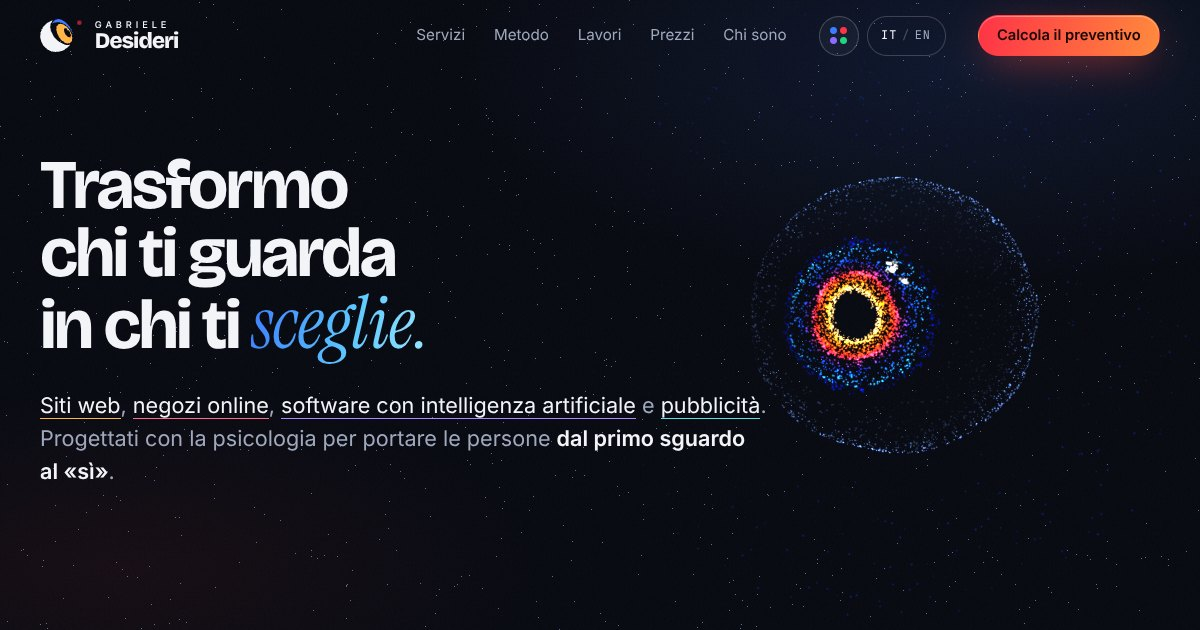
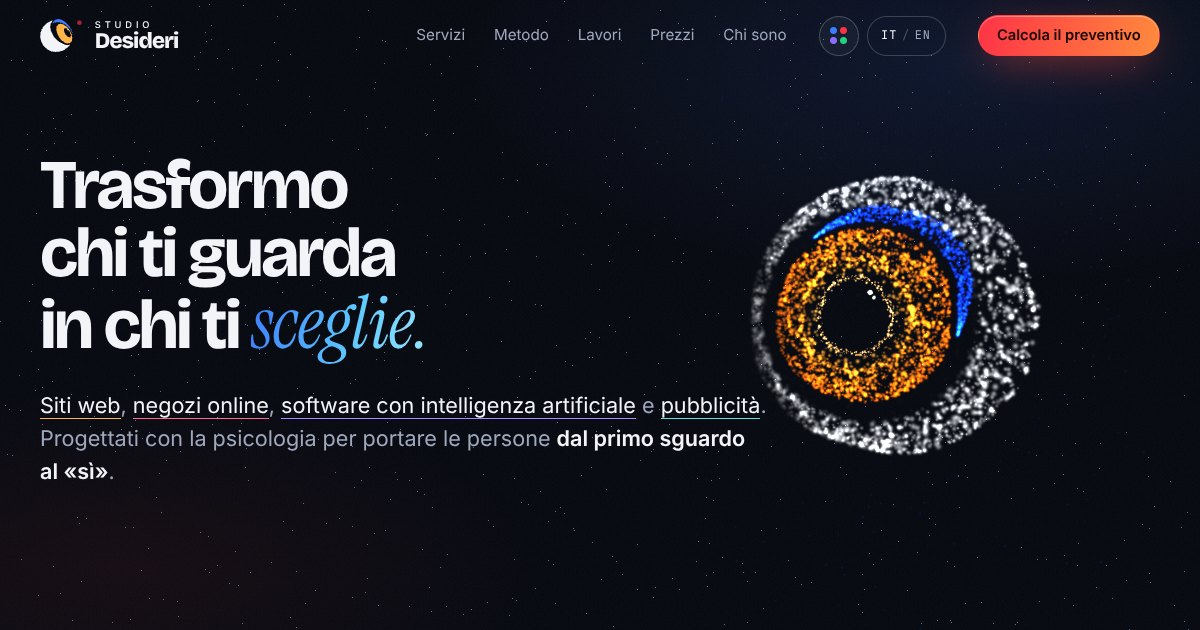
Nuovo nome: Desideri Studio
- Logo con «STUDIO» al posto di «GABRIELE» (scritta in tracciati), anche nella versione per fondi chiari
- Header, footer, titoli delle pagine, dati strutturati (studio con fondatore Gabriele Desideri), privacy
- Riga «Siti web · AI · Pubblicità» nel footer e nei titoli; immagini di anteprima rigenerate

Claude-Session: https://claude.ai/code/session_01NiGGEJbCXDT9DhRUzuRYxp

Changed region(s): [[0.6167, 0.2714, 0.8633, 0.7238], [0.0925, 0.0302, 0.1233, 0.0603]]

diff --git a/src/scripts/preventivo.js b/src/scripts/preventivo.js
@@ -21,7 +21,7 @@ const TESTI = {
     intro: 'Ciao Gabriele, ecco il mio progetto dal preventivo automatico:',
     tempi: 'Tempi', scontoRiga: 'Sconto pacchetto', totale: 'Totale indicativo', una: 'una tantum', iva: 'IVA esclusa',
     nome: 'Nome', attivita: 'Attività', settore: 'Settore', telefono: 'Telefono', preferisco: 'Preferisco', sito: 'Sito/social attuale', obiettivo: 'Obiettivo',
-    oggetto: 'Richiesta di preventivo dal sito',
+    oggetto: 'Richiesta di preventivo · Desideri Studio',
     inviaWa: 'Invia su WhatsApp', inviaMail: 'Invia per email', invio: 'Invio in corso…', riprova: 'Riprova',
     errore: (wa) => `Non sono riuscito a inviare la richiesta. Puoi mandarla <a href="${wa}" target="_blank" rel="noopener">su WhatsApp</a> con un clic.`,
     grazieModulo: (n, c) => `Grazie ${n}, ho ricevuto il tuo progetto. Ti ricontatto entro 24 ore${c ? ` via ${c.toLowerCase()}` : ''} con il preventivo definitivo.`,
@@ -40,7 +40,7 @@ const TESTI = {
     intro: "Hi Gabriele, here's my project from the instant quote:",
     tempi: 'Timing', scontoRiga: 'Bundle discount', totale: 'Indicative total', una: 'one-off', iva: 'excl. VAT',
     nome: 'Name', attivita: 'Business', settore: 'Sector', telefono: 'Phone', preferisco: 'Preferred contact', sito: 'Current site/social', obiettivo: 'Goal',
-    oggetto: 'Quote request from the website',
+    oggetto: 'Quote request · Desideri Studio',
     inviaWa: 'Send on WhatsApp', inviaMail: 'Send by email', invio: 'Sending…', riprova: 'Try again',
     errore: (wa) => `I couldn't send your request. You can send it <a href="${wa}" target="_blank" rel="noopener">on WhatsApp</a> in one click.`,
     grazieModulo: (n, c) => `Thank you ${n}, I've received your project. I'll get back to you within 24 hours${c ? ` by ${c.toLowerCase()}` : ''} with the final quote.`,

diff --git a/src/i18n/ui.js b/src/i18n/ui.js
@@ -16,7 +16,7 @@ export const ui = {
   it: {
     lang: 'it', locale: 'it_IT', vaiContenuto: 'Vai al contenuto', menu: 'Menu',
     nav: [['servizi', 'Servizi'], ['metodo', 'Metodo'], ['lavori', 'Lavori'], ['prezzi', 'Prezzi'], ['chi-sono', 'Chi sono']],
-    navEtichetta: 'Principale', home: 'Gabriele Desideri, home', tagline: 'Dal primo sguardo al sì',
+    navEtichetta: 'Principale', home: 'Desideri Studio, home', tagline: 'Dal primo sguardo al sì', ruolo: 'Siti web · AI · Pubblicità',
     ctaPreventivo: 'Calcola il preventivo', whatsapp: 'Scrivimi su WhatsApp', personalizza: 'Personalizza',
     zona: 'Milano, Italia e Svizzera',
     footerClaim: 'Di cognome faccio Desideri. Di lavoro, li creo.',
@@ -36,7 +36,7 @@ export const ui = {
   en: {
     lang: 'en', locale: 'en_GB', vaiContenuto: 'Skip to content', menu: 'Menu',
     nav: [['servizi', 'Services'], ['metodo', 'Method'], ['lavori', 'Work'], ['prezzi', 'Pricing'], ['chi-sono', 'About']],
-    navEtichetta: 'Main', home: 'Gabriele Desideri, home', tagline: 'From first glance to yes',
+    navEtichetta: 'Main', home: 'Desideri Studio, home', tagline: 'From first glance to yes', ruolo: 'Websites · AI · Advertising',
     ctaPreventivo: 'Get a quote', whatsapp: 'Message me on WhatsApp', personalizza: 'Personalise',
     zona: 'Milan · Italy and Switzerland',
     footerClaim: 'My surname means "desires". Creating them is my job.',

diff --git a/src/styles/global.css b/src/styles/global.css
@@ -1,5 +1,5 @@
 /* ==========================================================================
-   Gabriele Desideri — stile globale
+   Desideri Studio — stile globale
    Regola dei colori: i freddi servono a capire, i caldi ad agire.
    Il caldo (fuoco → ambra) compare SOLO sui punti di conversione.
    ========================================================================== */
@@ -183,6 +183,7 @@ html.intro-fine .intro-punto { animation: intro-esplodi .7s var(--ease) forwards
 .punto-segnale { transform-box: fill-box; transform-origin: center; animation: segnale 2.4s ease-in-out infinite; }
 @keyframes segnale { 0%, 100% { opacity: 1; transform: scale(1); filter: drop-shadow(0 0 3px rgba(255, 51, 71, .9)); } 50% { opacity: .35; transform: scale(.82); filter: drop-shadow(0 0 0 rgba(255, 51, 71, 0)); } }
 .footer-grid a.brand { color: var(--latte); }
+.footer-grid .brand-ruolo { margin-top: .9rem; font-size: .68rem; }
 .footer-grid .brand-mark { width: 60px; height: 48px; }
 .footer-grid .brand-nome { font-size: 1.9rem; }
 .footer-grid .brand-nome-piccolo { font-size: .66rem; }

diff --git a/src/data/sito.js b/src/data/sito.js
@@ -1,6 +1,7 @@
 // Dati di contatto e contenuti condivisi. Quelli segnati "da confermare" sono in DA-CONFERMARE.md.
 export const contatti = {
   nome: 'Gabriele Desideri',
+  studio: 'Desideri Studio', // il nome commerciale: in fattura «Desideri Studio di Gabriele Desideri»
   ruolo: 'Siti web · Software AI · Pubblicità online',
   email: 'desiderigabriele@gmail.com',
   telefono: '+39 338 342 4098',

diff --git a/docs/02-benchmark-e-concept-sito.md b/docs/02-benchmark-e-concept-sito.md
@@ -110,7 +110,7 @@ Italiano predefinito (`/`), inglese su pagine vere (`/en`, `/en/quote`, `/en/pri
 Direzione **Aggancio**: un occhio che non guarda chi lo osserva, ma un **punto rosso** accanto a sé, lo stimolo che ha catturato la sua attenzione. È il messaggio del brand in un segno: chi cattura l'attenzione vince.
 - Versione definitiva **Eclisse flat**: sfera avorio `#F2F4F8`, palpebra blu `#3D7BFF`, iride ambra `#FFB547` con la pupilla rivolta verso il punto. Solo colori pieni, leggibile fino a 32 px. Pupilla e fessure sono trasparenti, così il logo prende il fondo di ogni tema.
 - **Punto rosso** (`--segnale`, `#FF3347`): il colore universale del segnale d'attenzione (spia "REC", diretta, notifiche). Sul sito pulsa piano ogni 2,4 secondi, mai con lampeggi veloci; fermo con "riduci movimento".
-- Nome: «GABRIELE» piccolo e spaziato sopra «Desideri», con la D maiuscola.
+- Nome: **Desideri Studio**. «STUDIO» piccolo e spaziato sopra «Desideri», con la D maiuscola. «Studio» comprende siti, AI e pubblicità e suona curato senza far credere a una grande agenzia. Nei titoli delle pagine si aggiunge «Siti web, AI e pubblicità». In fattura: «Desideri Studio di Gabriele Desideri».
 - File: `public/brand/` (marchio, logo orizzontale, logo per fondi chiari, simbolo quadrato), `src/assets/marchio.svg` (header e footer, senza id), `public/favicon.svg`, `public/img/icona-512.png` e `apple-touch-icon.png`.
 
 ### Tipografia

diff --git a/DA-CONFERMARE.md b/DA-CONFERMARE.md
@@ -4,7 +4,8 @@
 - [ ] **Telefono e WhatsApp pubblici**: oggi `+39 338 342 4098` (dal CV). Va bene mostrarlo?
 - [ ] **Email**: oggi `desiderigabriele@gmail.com`. Meglio un'email col dominio (es. `ciao@gabrieledesideri.it`).
 - [ ] **Partita IVA** da mostrare nel footer (`contatti.piva` in `src/data/sito.js`).
-- [ ] **Dominio**: oggi `gabrieledesideri.it` in `astro.config.mjs`, `robots.txt` e dati strutturati.
+- [ ] **Dominio**: oggi `gabrieledesideri.it` in `astro.config.mjs`, `robots.txt` e dati strutturati. Con il nome «Desideri Studio» valuta `desideristudio.it` (e il .com), e tieni gabrieledesideri.it come reindirizzamento.
+- [ ] **Nome «Desideri Studio»**: controllare che il marchio sia libero (UIBM, EUIPO) e che Instagram e LinkedIn siano liberi. In fattura: «Desideri Studio di Gabriele Desideri».
 - [ ] **Foto tua** per la sezione "Chi sono" (oggi c'è solo il testo con il percorso).
 
 ## Contenuti

diff --git a/README.md b/README.md
@@ -1,4 +1,4 @@
-# Gabriele Desideri — sito personale
+# Desideri Studio — sito di Gabriele Desideri
 
 **Stato:** prima versione completa (anteprima, alcuni dati da confermare) · aggiornato il 16 ottobre 2026
 
